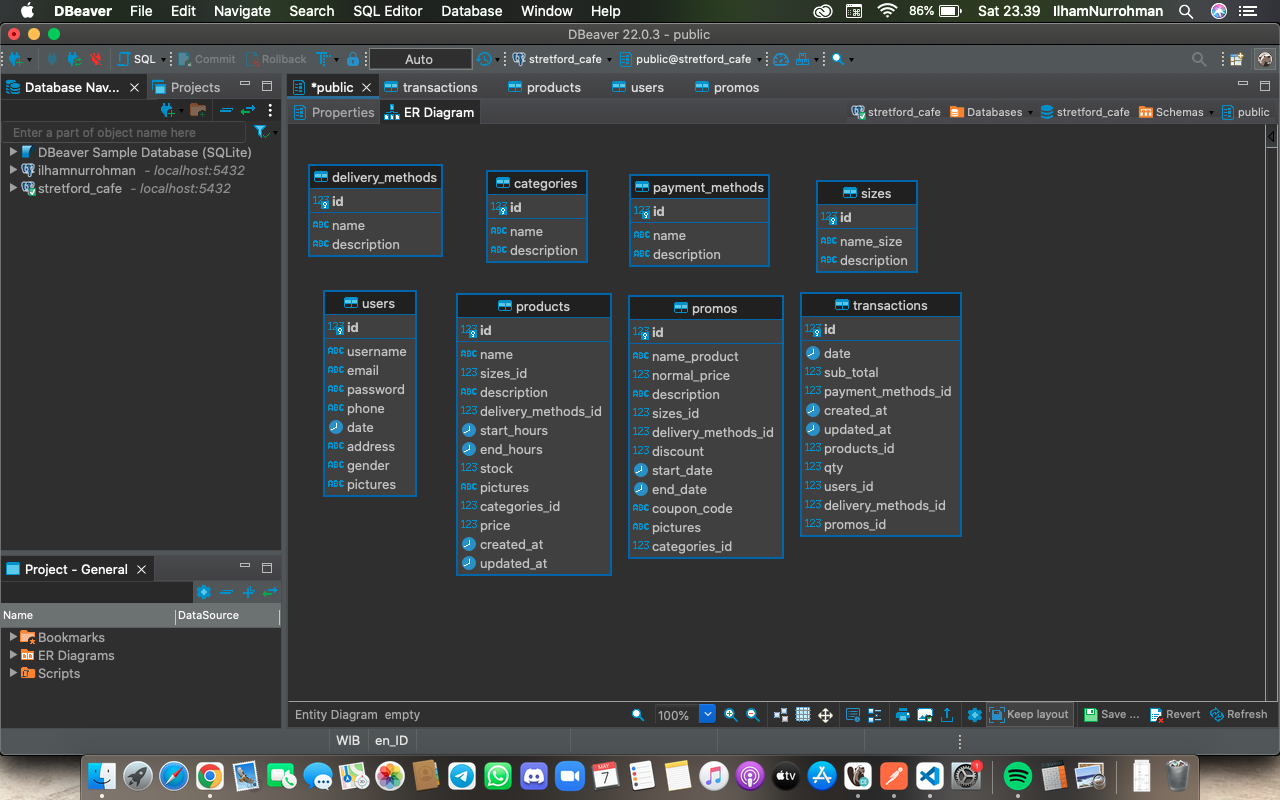
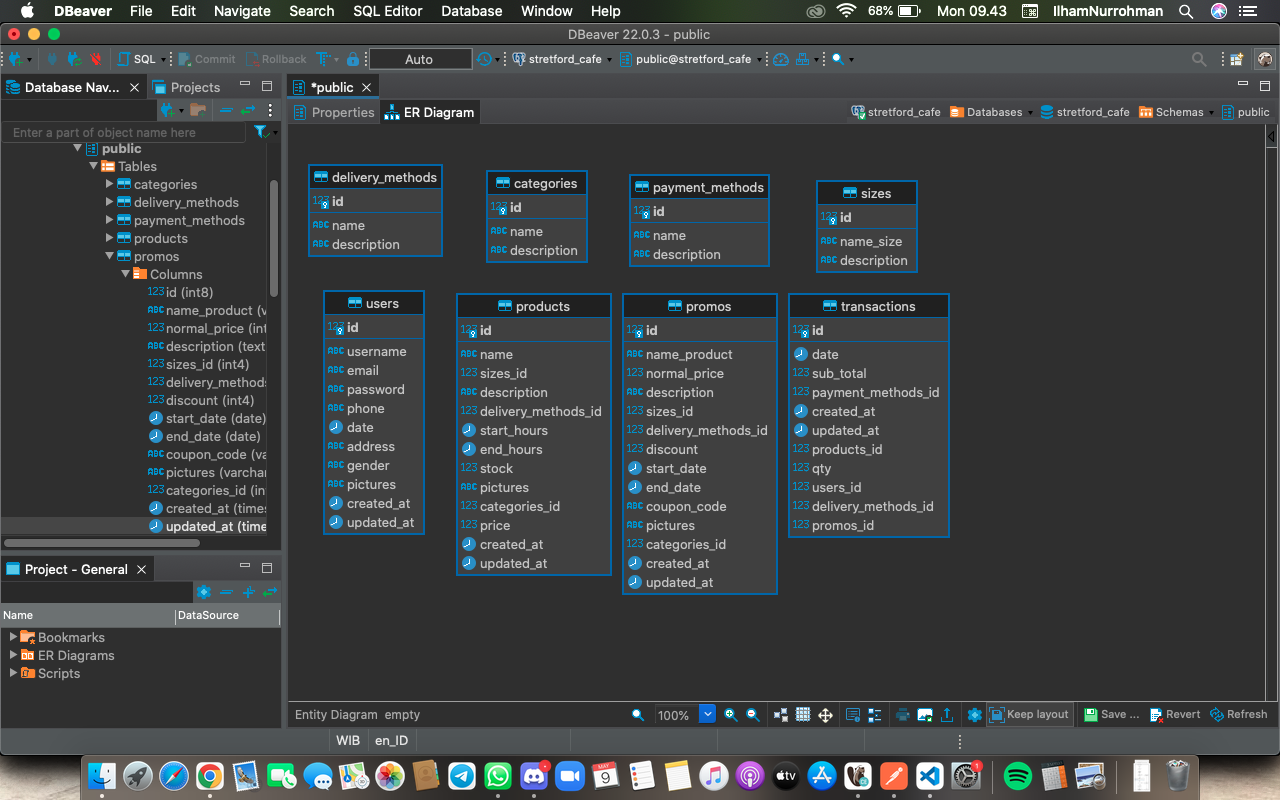
Update

diff --git a/src/models/promos.js b/src/models/promos.js
@@ -3,10 +3,10 @@ const db = require("../config/db");
 
 const createNewPromos = (body) => {
     return new Promise((resolve, reject) => {
-        const { name_product, normal_price, description, sizes_id, delivery_methods_id, discount, start_date, end_date, coupon_code, pictures, categories_id } = body;
+        const { name_product, normal_price, description, sizes_id, delivery_methods_id, discount, start_date, end_date, coupon_code, pictures, categories_id, created_at, updated_at } = body;
         const sqlQuery =
-            "INSERT INTO promos (name_product, normal_price, description, sizes_id, delivery_methods_id, discount, start_date, end_date, coupon_code, pictures, categories_id) VALUES ($1, $2, $3, $4, $5, $6, $7, $8, $9, $10, $11) returning *";
-        db.query(sqlQuery, [name_product, normal_price, description, sizes_id, delivery_methods_id, discount, start_date, end_date, coupon_code, pictures, categories_id])
+            "INSERT INTO promos (name_product, normal_price, description, sizes_id, delivery_methods_id, discount, start_date, end_date, coupon_code, pictures, categories_id, created_at, updated_at) VALUES ($1, $2, $3, $4, $5, $6, $7, $8, $9, $10, $11, $12, $13) returning *";
+        db.query(sqlQuery, [name_product, normal_price, description, sizes_id, delivery_methods_id, discount, start_date, end_date, coupon_code, pictures, categories_id, created_at, updated_at])
             .then(({ rows }) => {
                 const response = {
                     data: rows[0],
@@ -45,10 +45,10 @@ const findPromosfromServer = (query) => {
 const updatePromos = (params, body) => {
     return new Promise((resolve, reject) => {
         const { id } = params
-        const { name_product, normal_price, description, sizes_id, delivery_methods_id, discount, start_date, end_date, coupon_code, pictures, categories_id } = body;
+        const { name_product, normal_price, description, sizes_id, delivery_methods_id, discount, start_date, end_date, coupon_code, pictures, categories_id, created_at, updated_at } = body;
         const sqlQuery =
-            "UPDATE promos SET name_product=COALESCE($1, name_product), normal_price=COALESCE($2, normal_price), description=COALESCE($3, description), sizes_id=COALESCE($4, sizes_id), delivery_methods_id=COALESCE($5, delivery_methods_id), discount=COALESCE($6, discount), start_date=COALESCE($7, start_date), end_date=COALESCE($8, end_date), coupon_code=COALESCE($9, coupon_code), pictures=COALESCE($10, pictures), categories_id=COALESCE($11, categories_id) where id=$12 returning *";
-        db.query(sqlQuery, [name_product, normal_price, description, sizes_id, delivery_methods_id, discount, start_date, end_date, coupon_code, pictures, categories_id, id])
+            "UPDATE promos SET name_product=COALESCE($1, name_product), normal_price=COALESCE($2, normal_price), description=COALESCE($3, description), sizes_id=COALESCE($4, sizes_id), delivery_methods_id=COALESCE($5, delivery_methods_id), discount=COALESCE($6, discount), start_date=COALESCE($7, start_date), end_date=COALESCE($8, end_date), coupon_code=COALESCE($9, coupon_code), pictures=COALESCE($10, pictures), categories_id=COALESCE($11, categories_id), created_at=COALESCE($12, created_at), updated_at=COALESCE($13, updated_at) where id=$14 returning *";
+        db.query(sqlQuery, [name_product, normal_price, description, sizes_id, delivery_methods_id, discount, start_date, end_date, coupon_code, pictures, categories_id, created_at, updated_at, id])
             .then((result) => {
                 resolve({
                     data: result.rows,

diff --git a/src/models/users.js b/src/models/users.js
@@ -38,10 +38,10 @@ const deleteDataUsersfromServer = (params) => {
 
 const createNewUsers = (body) => {
     return new Promise((resolve, reject) => {
-      const { username, email, password, phone, date, address, gender, pictures } = body;
+      const { username, email, password, phone, date, address, gender, pictures, created_at, updated_at } = body;
       const sqlQuery =
-        "INSERT INTO users(username, email, password, phone, date, address, gender, pictures) VALUES ($1, $2, $3, $4, $5, $6, $7, $8) returning *";
-      db.query(sqlQuery, [username, email, password, phone, date, address, gender, pictures])
+        "INSERT INTO users(username, email, password, phone, date, address, gender, pictures, created_at, updated_at) VALUES ($1, $2, $3, $4, $5, $6, $7, $8, $9, $10) returning username, email, phone";
+      db.query(sqlQuery, [username, email, password, phone, date, address, gender, pictures, created_at, updated_at])
         .then(({ rows }) => {
           const response = {
             data: rows[0],
@@ -55,10 +55,10 @@ const createNewUsers = (body) => {
   const updateUsers = (params, body) => {
     return new Promise((resolve, reject) => {
       const { id } = params
-      const { username, email, password, phone, date, address, gender, pictures } = body;
+      const { username, email, password, phone, date, address, gender, pictures, created_at, updated_at } = body;
       const sqlQuery =
-        "UPDATE users SET username=COALESCE(NULLIF($1, ''), username ), email=COALESCE(NULLIF($2, ''), email ), password=COALESCE(NULLIF($3, ''), password ), phone=COALESCE($4, phone ), date=COALESCE($5, date ), address=COALESCE(NULLIF($6, ''), address ), gender=COALESCE(NULLIF($7, ''), gender ), pictures=COALESCE(NULLIF($8, ''), pictures ) where id=$9 returning *";
-      db.query(sqlQuery, [username, email, password, phone, date, address, gender, pictures, id])
+        "UPDATE users SET username=COALESCE($1, username ), email=COALESCE($2, email ), password=COALESCE($3, password ), phone=COALESCE($4, phone ), date=COALESCE($5, date ), address=COALESCE($6, address ), gender=COALESCE($7, gender ), pictures=COALESCE($8, pictures ), created_at=COALESCE($9, created_at ), updated_at=COALESCE($10, updated_at ) where id=$11 returning username, email, phone, date, address, gender, pictures";
+      db.query(sqlQuery, [username, email, password, phone, date, address, gender, pictures, created_at, updated_at, id])
       //db.query(`UPDATE users SET username = ${data.username}, email = ${data.email}, password = ${data.password}, phone = ${data.phone}, date = ${data.date}, address = ${data.address}, gender = ${data.gender}, pictures = ${data.pictures} where id=${id}`)
       .then((result) => {
          resolve({

diff --git a/src/middlewares/validate.js b/src/middlewares/validate.js
@@ -74,10 +74,10 @@ validate.promosData = (req, res, next) => {
   // cek apakah body sesuai dengan yang diinginkan
   const { body } = req;
   const validBody = Object.keys(body).filter(
-    (key) => key === "name_product" || key === "normal_price" || key === "description" || key === "sizes_id" || key === "delivery_methods_id" || key === "discount" || key === "start_date" || key === "end_start" || key === "coupon_code" || key === "pictures" 
+    (key) => key === "name_product" || key === "normal_price" || key === "description" || key === "sizes_id" || key === "delivery_methods_id" || key === "discount" || key === "start_date" || key === "end_start" || key === "coupon_code" || key === "pictures" || key === "categories_id" || key === "created_at" || key === "updated_at" 
   );
   // diinginkan ada ketiga body diatas
-  if (validBody.length < 11) {
+  if (validBody.length < 10) {
     return res.status(400).json({
       err: "Body must contain complete data !",
     });
